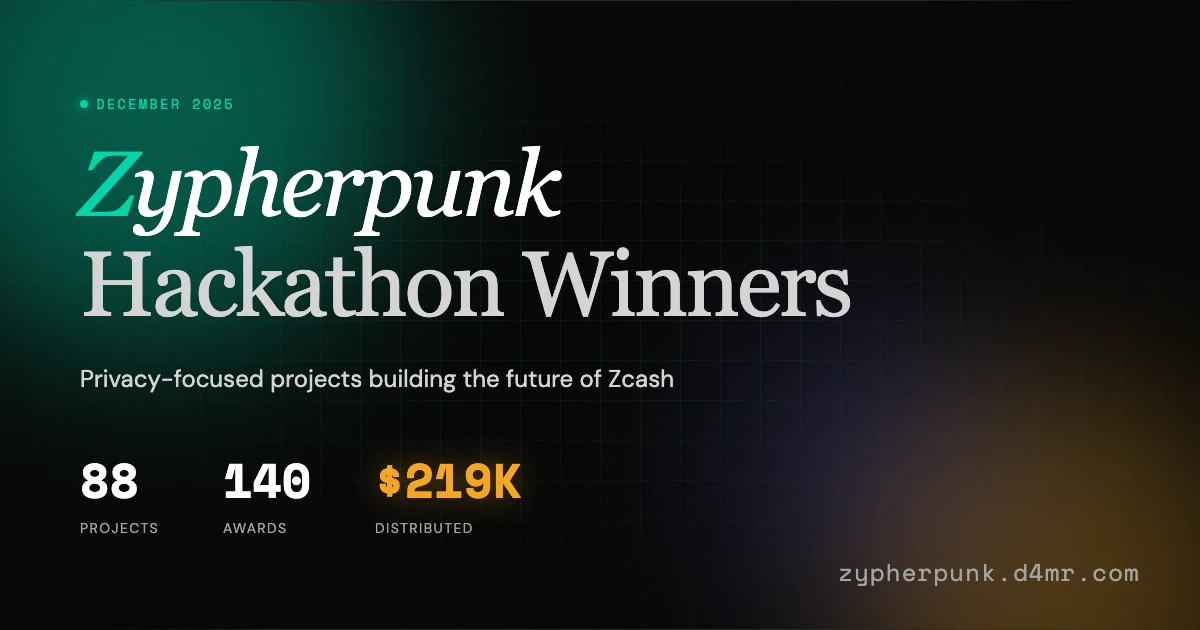
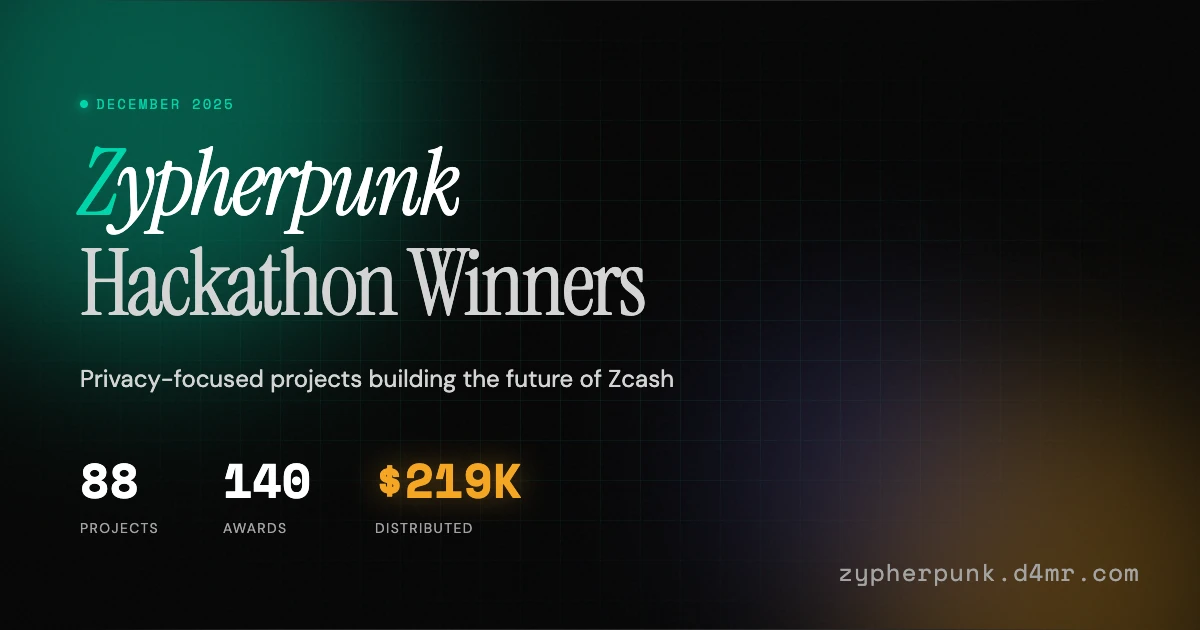
new og font

Changed region(s): [[0.0617, 0.2111, 0.7092, 0.5127]]

diff --git a/scripts/generate-og.tsx b/scripts/generate-og.tsx
@@ -7,7 +7,7 @@ const HTML = `
 <head>
   <meta charset="UTF-8">
   <style>
-    @import url('https://fonts.googleapis.com/css2?family=DM+Sans:wght@400;500;700&family=Space+Mono:wght@400;700&display=swap');
+    @import url('https://fonts.googleapis.com/css2?family=DM+Sans:wght@400;500;700&family=Instrument+Serif:ital@0;1&family=Space+Mono:wght@400;700&display=swap');
     
     * {
       margin: 0;
@@ -104,7 +104,7 @@ const HTML = `
     }
     
     .title {
-      font-family: Georgia, serif;
+      font-family: 'Instrument Serif', Georgia, serif;
       font-size: 92px;
       font-style: italic;
       font-weight: 400;
@@ -119,7 +119,7 @@ const HTML = `
     }
     
     .subtitle {
-      font-family: Georgia, serif;
+      font-family: 'Instrument Serif', Georgia, serif;
       font-size: 92px;
       font-weight: 400;
       color: #d4d4d4;
